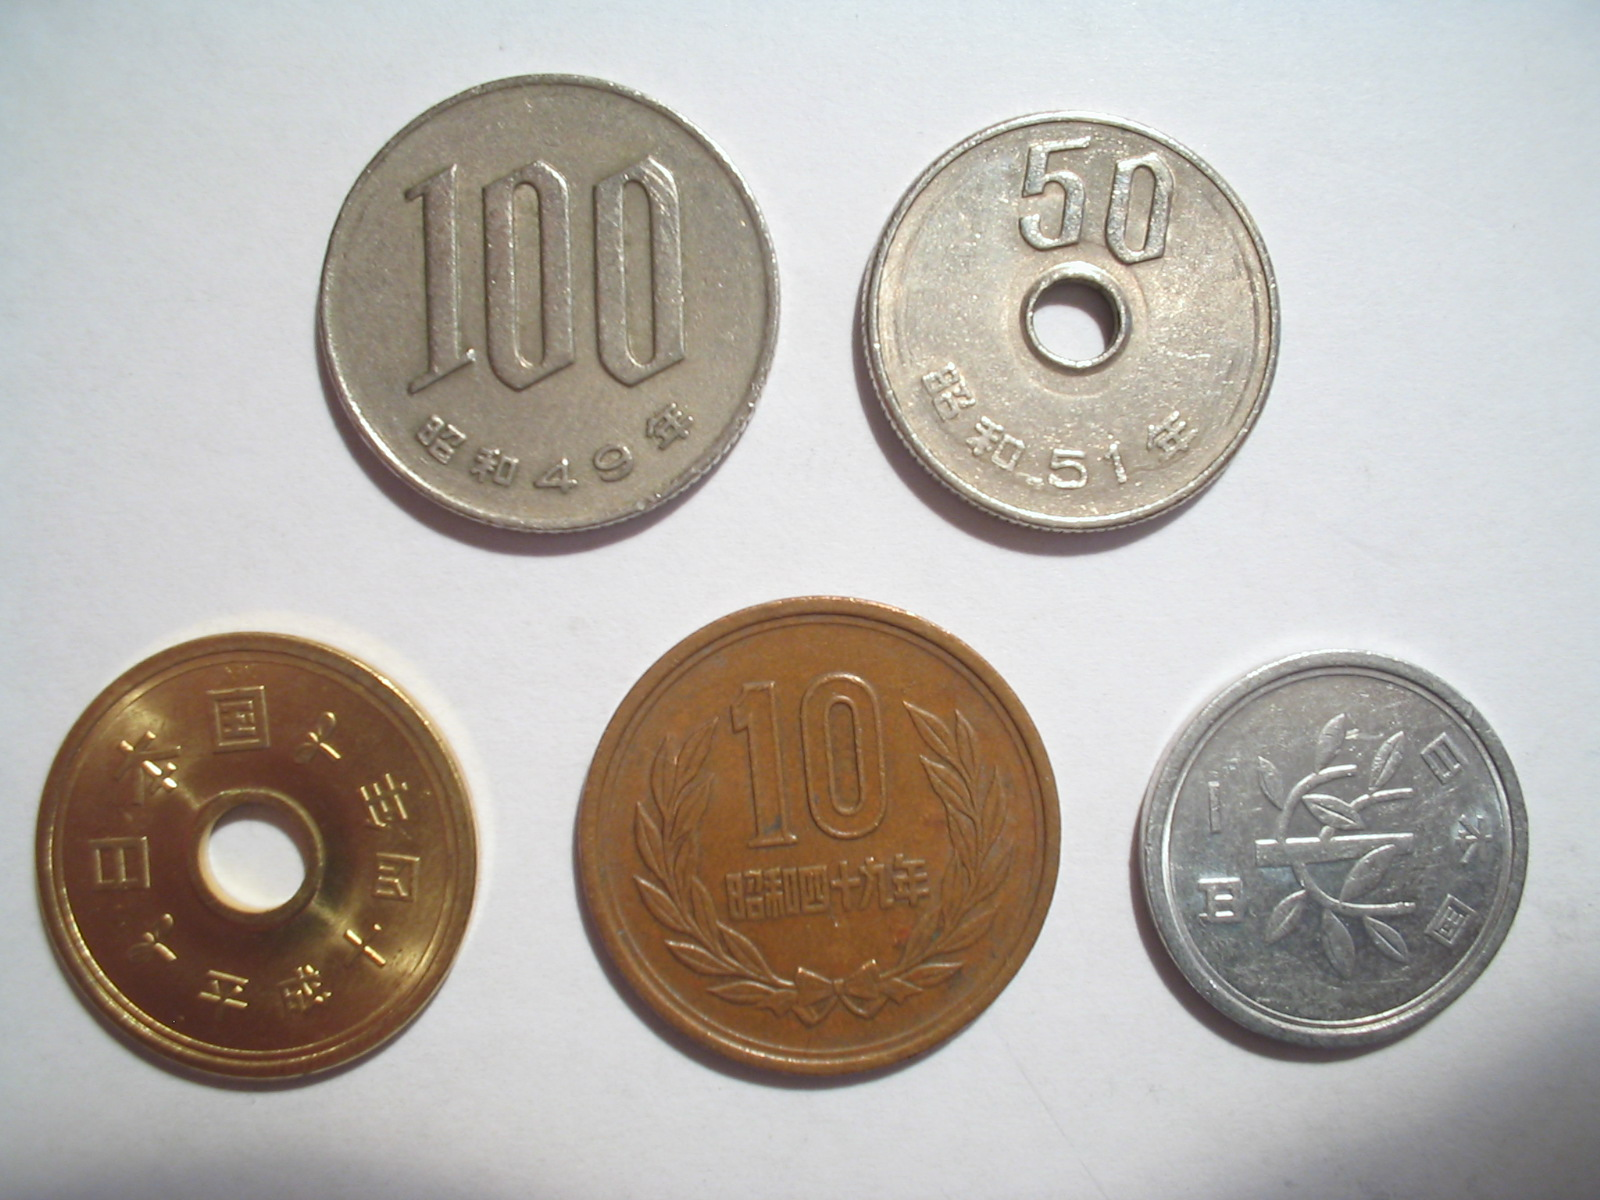
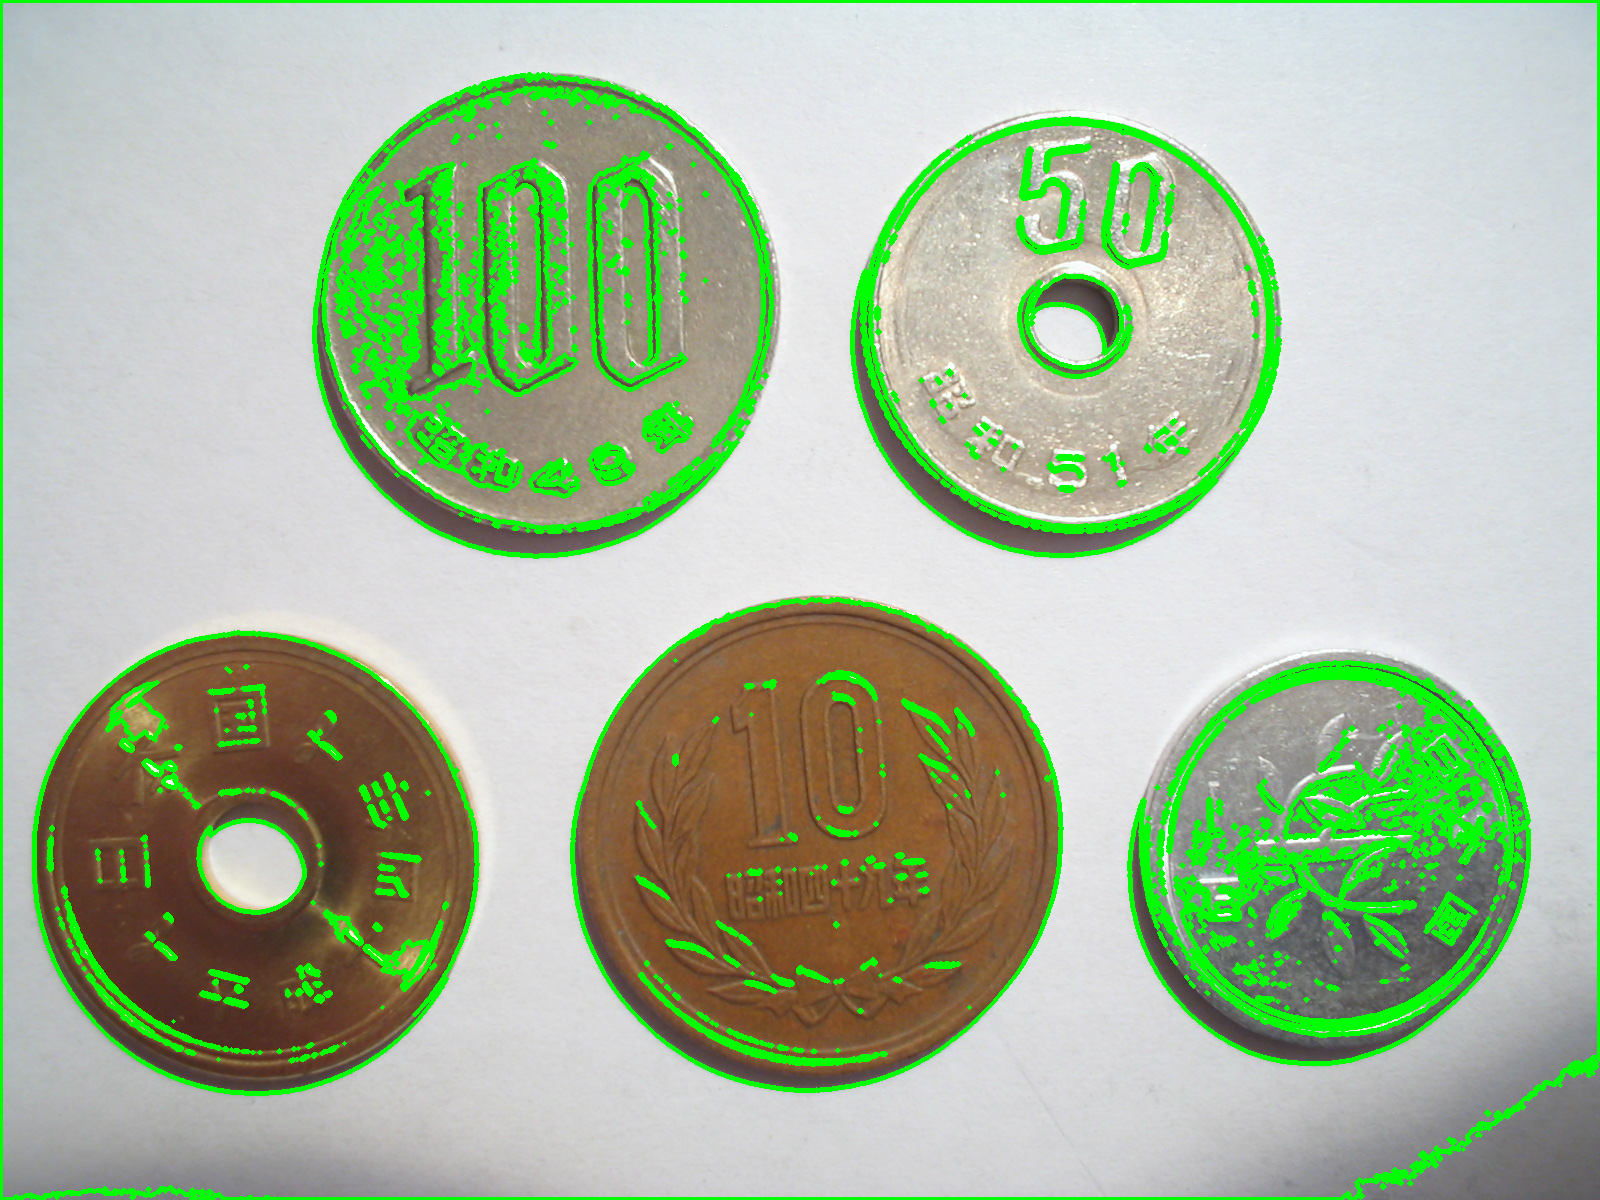
update

diff --git a/README.md b/README.md
@@ -25,16 +25,6 @@ python3
 >>> import cv2
 >>> img_color = cv2.imread('coins.jpg', cv2.IMREAD_COLOR)
 >>> cv2.imwrite('save.png', img_color)
-
-### 輪郭描画
->>> import cv2
->>> img_color = cv2.imread('coins.jpg', cv2.IMREAD_COLOR)
->>> thresh = cv2.threshold(img_color, 127,255, cv2.THRESH_BINARY_INV)
->>> contours = cv2.findContours(thresh, cv2.RETR_TREE, cv2.CHAIN_APPROX_SIMPLE)
-
-cv2.error: OpenCV(4.5.2) :-1: error: (-5:Bad argument) in function 'findContours'
-> Overload resolution failed:
->  - image is not a numerical tuple
->  - Expected Ptr<cv::UMat> for argument 'image'
-
 ```
+### 輪郭描画
+contours.py
